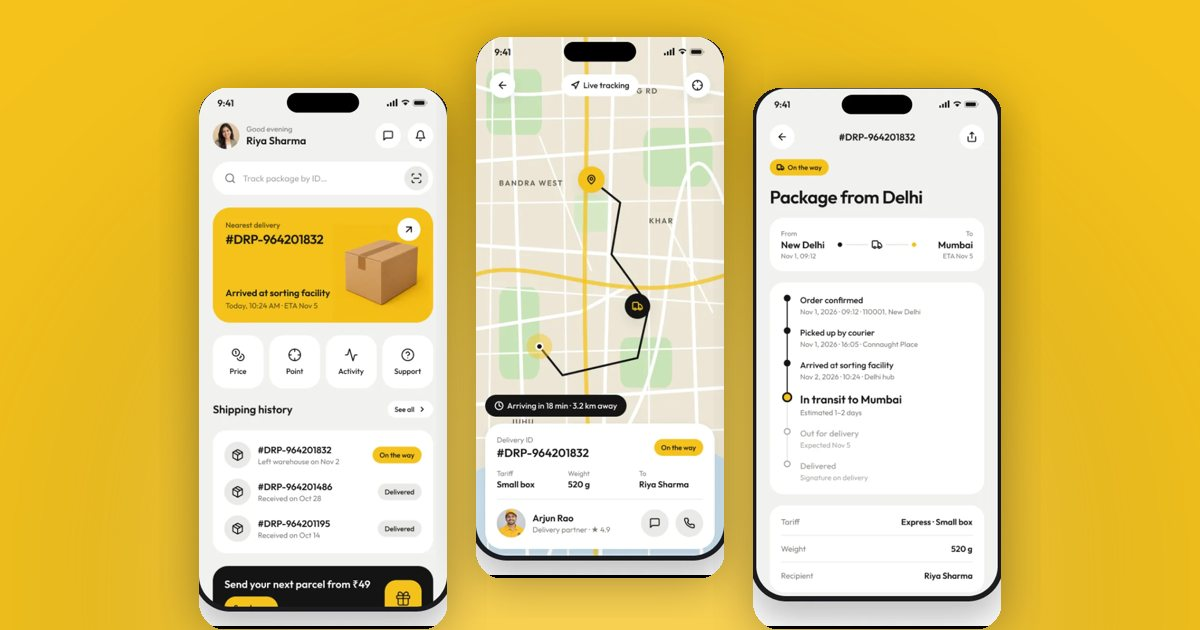
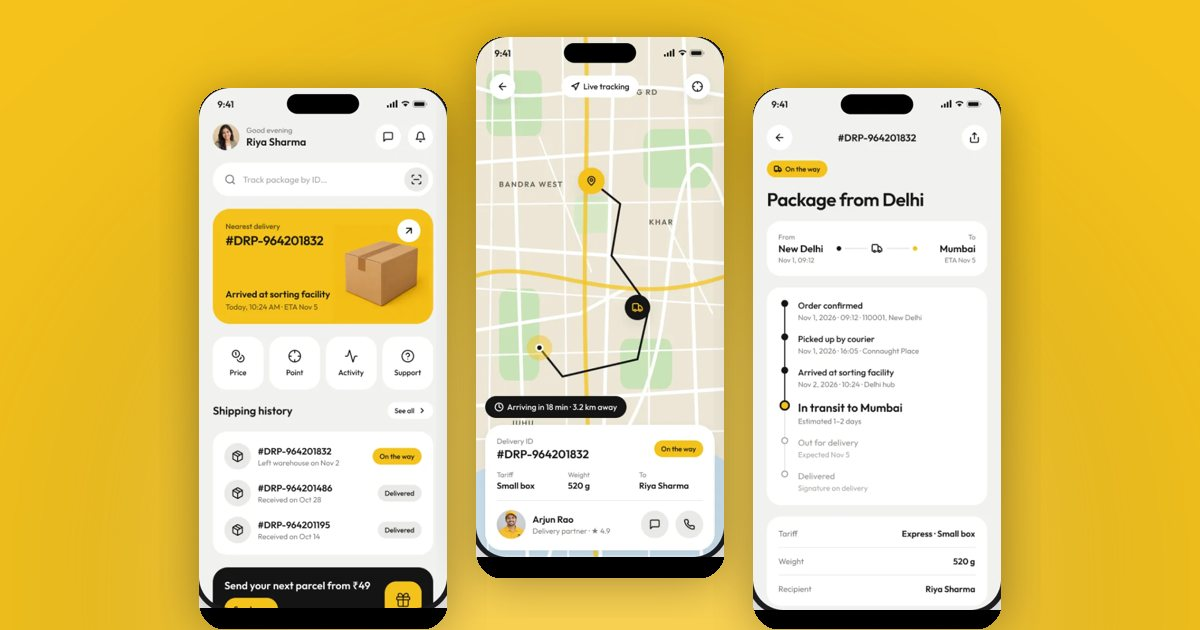
DROPP: re-crop phone screens exactly inside the frame, no bezel or shadow at the foot
Claude-Session: https://claude.ai/code/session_01PDiCoiS8fQavZrhd29JHkY

diff --git a/work/dropp-parcel-delivery-app.html b/work/dropp-parcel-delivery-app.html
@@ -170,7 +170,7 @@
     <dl class="wr-meta"><div><dt>Industry</dt><dd>Logistics &amp; Delivery</dd></div><div><dt>Platform</dt><dd>iOS &amp; Android</dd></div><div><dt>Role</dt><dd>UI/UX Designer</dd></div><div><dt>Year</dt><dd>2026</dd></div><div><dt>Deliverables</dt><dd>Splash, home, live tracking, delivery details, shipping history, design system</dd></div></dl>
     <div class="wr-acts"><a class="wr-start" href="#overview">Start reading <span>3 min</span></a><a class="wr-swap" href="?mode=interactive">Prefer the animated version? <b>Switch to interactive</b></a></div>
   </div>
-  <div class="wr-hero__media"><div class="wr-hero__phones"><figure class="wphone"><img src="../images/work/dropp/p01.webp" alt="DROPP app screen" width="520" height="1130" fetchpriority="high"></figure><figure class="wphone"><img src="../images/work/dropp/p02.webp" alt="DROPP app screen" width="520" height="1130" fetchpriority="high"></figure><figure class="wphone"><img src="../images/work/dropp/p03.webp" alt="DROPP app screen" width="520" height="1130" fetchpriority="high"></figure></div></div>
+  <div class="wr-hero__media"><div class="wr-hero__phones"><figure class="wphone"><img src="../images/work/dropp/p01.webp" alt="DROPP app screen" width="520" height="1092" fetchpriority="high"></figure><figure class="wphone"><img src="../images/work/dropp/p02.webp" alt="DROPP app screen" width="520" height="1092" fetchpriority="high"></figure><figure class="wphone"><img src="../images/work/dropp/p03.webp" alt="DROPP app screen" width="520" height="1092" fetchpriority="high"></figure></div></div>
 </header>
 <div class="wrap wr-body">
   <aside class="wr-toc" aria-label="On this page"><div class="wr-toc__in">
@@ -200,27 +200,27 @@
   <p class="wr-k"><span>04</span>Splash and brand</p>
   <h2>A brand you can spot in a second.</h2>
   <p class="wr-p">A yellow splash with a stacked-parcel illustration, the DROPP wordmark and the promise &quot;Send it. Track it. Done.&quot; sets the tone before the app opens.</p>
-  <div class="wphones wphones--1"><figure class="wphone"><img src="../images/work/dropp/p01.webp" alt="DROPP splash and brand, screen 1" width="520" height="1130" loading="lazy" decoding="async"></figure></div>
+  <div class="wphones wphones--1"><figure class="wphone"><img src="../images/work/dropp/p01.webp" alt="DROPP splash and brand, screen 1" width="520" height="1092" loading="lazy" decoding="async"></figure></div>
 </section><section class="wr-sec" id="home">
   <p class="wr-k"><span>05</span>Home</p>
   <h2>The nearest delivery leads.</h2>
   <p class="wr-p">A greeting, a search-by-ID field and a large yellow card for the nearest delivery come first, followed by quick actions for price, pickup point, activity and support, and the shipping history.</p>
-  <div class="wphones wphones--1"><figure class="wphone"><img src="../images/work/dropp/p02.webp" alt="DROPP home, screen 1" width="520" height="1130" loading="lazy" decoding="async"></figure></div>
+  <div class="wphones wphones--1"><figure class="wphone"><img src="../images/work/dropp/p02.webp" alt="DROPP home, screen 1" width="520" height="1092" loading="lazy" decoding="async"></figure></div>
 </section><section class="wr-sec" id="tracking">
   <p class="wr-k"><span>06</span>Live tracking</p>
   <h2>See the courier, not a status code.</h2>
   <p class="wr-p">The route map shows pickup, courier and destination with an &quot;arriving in 18 min&quot; chip. The card below holds the delivery ID, tariff, weight, recipient and buttons to message or call the courier.</p>
-  <div class="wphones wphones--1"><figure class="wphone"><img src="../images/work/dropp/p03.webp" alt="DROPP live tracking, screen 1" width="520" height="1130" loading="lazy" decoding="async"></figure></div>
+  <div class="wphones wphones--1"><figure class="wphone"><img src="../images/work/dropp/p03.webp" alt="DROPP live tracking, screen 1" width="520" height="1092" loading="lazy" decoding="async"></figure></div>
 </section><section class="wr-sec" id="details">
   <p class="wr-k"><span>07</span>Delivery details</p>
   <h2>Every stage, explained.</h2>
   <p class="wr-p">From New Delhi to Mumbai, the timeline marks order confirmed, picked up, at sorting facility, in transit, out for delivery and delivered, with the current stage highlighted.</p>
-  <div class="wphones wphones--1"><figure class="wphone"><img src="../images/work/dropp/p04.webp" alt="DROPP delivery details, screen 1" width="520" height="1130" loading="lazy" decoding="async"></figure></div>
+  <div class="wphones wphones--1"><figure class="wphone"><img src="../images/work/dropp/p04.webp" alt="DROPP delivery details, screen 1" width="520" height="1095" loading="lazy" decoding="async"></figure></div>
 </section><section class="wr-sec" id="mockups">
   <p class="wr-k"><span>08</span>All screens</p>
   <h2>One flow from splash to doorstep.</h2>
   <p class="wr-p">Together the four screens cover the journey most users repeat every week: open, check, track, done.</p>
-  <div class="wphones wphones--4"><figure class="wphone"><img src="../images/work/dropp/p01.webp" alt="DROPP all screens, screen 1" width="520" height="1130" loading="lazy" decoding="async"></figure><figure class="wphone"><img src="../images/work/dropp/p02.webp" alt="DROPP all screens, screen 2" width="520" height="1130" loading="lazy" decoding="async"></figure><figure class="wphone"><img src="../images/work/dropp/p03.webp" alt="DROPP all screens, screen 3" width="520" height="1130" loading="lazy" decoding="async"></figure><figure class="wphone"><img src="../images/work/dropp/p04.webp" alt="DROPP all screens, screen 4" width="520" height="1130" loading="lazy" decoding="async"></figure></div>
+  <div class="wphones wphones--4"><figure class="wphone"><img src="../images/work/dropp/p01.webp" alt="DROPP all screens, screen 1" width="520" height="1092" loading="lazy" decoding="async"></figure><figure class="wphone"><img src="../images/work/dropp/p02.webp" alt="DROPP all screens, screen 2" width="520" height="1092" loading="lazy" decoding="async"></figure><figure class="wphone"><img src="../images/work/dropp/p03.webp" alt="DROPP all screens, screen 3" width="520" height="1092" loading="lazy" decoding="async"></figure><figure class="wphone"><img src="../images/work/dropp/p04.webp" alt="DROPP all screens, screen 4" width="520" height="1095" loading="lazy" decoding="async"></figure></div>
 </section>
     <section class="wr-sec" id="decisions">
       <p class="wr-k"><span>09</span>Decisions</p>
@@ -255,7 +255,7 @@
   <div class="ix-hero__txt"><p class="ix-k">DROPP · Parcel delivery app · 2026</p>
   <h2 class="ix-hero__h"><span class="ix-w"><span>Send</span></span> <span class="ix-w"><span>it.</span></span> <span class="ix-w"><span>Track</span></span> <span class="ix-w"><span>it.</span></span> <span class="ix-w"><span>Done.</span></span> </h2>
   <p class="ix-hero__p">A parcel delivery app where the answer to &quot;where is my package?&quot; is always one glance away.</p></div>
-  <div class="ix-hero__phones"><figure class="wphone"><img src="../images/work/dropp/p01.webp" alt="DROPP screen" width="520" height="1130" fetchpriority="high"></figure><figure class="wphone"><img src="../images/work/dropp/p02.webp" alt="DROPP screen" width="520" height="1130" fetchpriority="high"></figure><figure class="wphone"><img src="../images/work/dropp/p03.webp" alt="DROPP screen" width="520" height="1130" fetchpriority="high"></figure></div>
+  <div class="ix-hero__phones"><figure class="wphone"><img src="../images/work/dropp/p01.webp" alt="DROPP screen" width="520" height="1092" fetchpriority="high"></figure><figure class="wphone"><img src="../images/work/dropp/p02.webp" alt="DROPP screen" width="520" height="1092" fetchpriority="high"></figure><figure class="wphone"><img src="../images/work/dropp/p03.webp" alt="DROPP screen" width="520" height="1092" fetchpriority="high"></figure></div>
   <p class="ix-scroll"><i></i>Scroll, I’ll walk you through it</p>
 </section><section class="ix-ch ix-brief" data-ch="brief">
   <p class="ix-k">01 · The brief</p>
@@ -263,23 +263,23 @@
   <div class="ix-stats"><div><b data-count="4">4</b><span>core screens</span></div><div><b data-count="1">1</b><span>tap from home to live map</span></div><div><b data-count="6">6</b><span>delivery stages on the timeline</span></div><div><b data-count="19,000+">19,000+</b><span>pin codes shown on splash</span></div></div>
 </section><section class="ix-ch ix-hs" data-ch="hscroll">
   <div class="ix-hs__pin"><div class="ix-hs__head"><p class="ix-k">02 · The product</p><h3>4 screens, one flow.</h3></div>
-  <div class="ix-hs__track"><figure class="wphone"><img src="../images/work/dropp/p01.webp" alt="DROPP screen" width="520" height="1130" loading="lazy" decoding="async"></figure><figure class="wphone"><img src="../images/work/dropp/p02.webp" alt="DROPP screen" width="520" height="1130" loading="lazy" decoding="async"></figure><figure class="wphone"><img src="../images/work/dropp/p03.webp" alt="DROPP screen" width="520" height="1130" loading="lazy" decoding="async"></figure><figure class="wphone"><img src="../images/work/dropp/p04.webp" alt="DROPP screen" width="520" height="1130" loading="lazy" decoding="async"></figure></div>
+  <div class="ix-hs__track"><figure class="wphone"><img src="../images/work/dropp/p01.webp" alt="DROPP screen" width="520" height="1092" loading="lazy" decoding="async"></figure><figure class="wphone"><img src="../images/work/dropp/p02.webp" alt="DROPP screen" width="520" height="1092" loading="lazy" decoding="async"></figure><figure class="wphone"><img src="../images/work/dropp/p03.webp" alt="DROPP screen" width="520" height="1092" loading="lazy" decoding="async"></figure><figure class="wphone"><img src="../images/work/dropp/p04.webp" alt="DROPP screen" width="520" height="1095" loading="lazy" decoding="async"></figure></div>
   <div class="ix-hs__bar"><i></i></div></div>
 </section><section class="ix-ch ix-sp" data-ch="split">
   <div class="ix-sp__txt"><p class="ix-k">03 · Splash and brand</p><h3>A brand you can spot in a second.</h3><p>A yellow splash with a stacked-parcel illustration, the DROPP wordmark and the promise &quot;Send it. Track it. Done.&quot; sets the tone before the app opens.</p></div>
-  <div class="ix-sp__media"><div class="ix-sp__phones"><figure class="wphone"><img src="../images/work/dropp/p01.webp" alt="DROPP Splash and brand" width="520" height="1130" loading="lazy" decoding="async"></figure></div></div>
+  <div class="ix-sp__media"><div class="ix-sp__phones"><figure class="wphone"><img src="../images/work/dropp/p01.webp" alt="DROPP Splash and brand" width="520" height="1092" loading="lazy" decoding="async"></figure></div></div>
 </section><section class="ix-ch ix-sp ix-sp--r" data-ch="split">
   <div class="ix-sp__txt"><p class="ix-k">04 · Home</p><h3>The nearest delivery leads.</h3><p>A greeting, a search-by-ID field and a large yellow card for the nearest delivery come first, followed by quick actions for price, pickup point, activity and support, and the shipping history.</p></div>
-  <div class="ix-sp__media"><div class="ix-sp__phones"><figure class="wphone"><img src="../images/work/dropp/p02.webp" alt="DROPP Home" width="520" height="1130" loading="lazy" decoding="async"></figure></div></div>
+  <div class="ix-sp__media"><div class="ix-sp__phones"><figure class="wphone"><img src="../images/work/dropp/p02.webp" alt="DROPP Home" width="520" height="1092" loading="lazy" decoding="async"></figure></div></div>
 </section><section class="ix-ch ix-sp" data-ch="split">
   <div class="ix-sp__txt"><p class="ix-k">05 · Live tracking</p><h3>See the courier, not a status code.</h3><p>The route map shows pickup, courier and destination with an &quot;arriving in 18 min&quot; chip. The card below holds the delivery ID, tariff, weight, recipient and buttons to message or call the courier.</p></div>
-  <div class="ix-sp__media"><div class="ix-sp__phones"><figure class="wphone"><img src="../images/work/dropp/p03.webp" alt="DROPP Live tracking" width="520" height="1130" loading="lazy" decoding="async"></figure></div></div>
+  <div class="ix-sp__media"><div class="ix-sp__phones"><figure class="wphone"><img src="../images/work/dropp/p03.webp" alt="DROPP Live tracking" width="520" height="1092" loading="lazy" decoding="async"></figure></div></div>
 </section><section class="ix-ch ix-sp ix-sp--r" data-ch="split">
   <div class="ix-sp__txt"><p class="ix-k">06 · Delivery details</p><h3>Every stage, explained.</h3><p>From New Delhi to Mumbai, the timeline marks order confirmed, picked up, at sorting facility, in transit, out for delivery and delivered, with the current stage highlighted.</p></div>
-  <div class="ix-sp__media"><div class="ix-sp__phones"><figure class="wphone"><img src="../images/work/dropp/p04.webp" alt="DROPP Delivery details" width="520" height="1130" loading="lazy" decoding="async"></figure></div></div>
+  <div class="ix-sp__media"><div class="ix-sp__phones"><figure class="wphone"><img src="../images/work/dropp/p04.webp" alt="DROPP Delivery details" width="520" height="1095" loading="lazy" decoding="async"></figure></div></div>
 </section><section class="ix-ch ix-sp" data-ch="split">
   <div class="ix-sp__txt"><p class="ix-k">07 · All screens</p><h3>One flow from splash to doorstep.</h3><p>Together the four screens cover the journey most users repeat every week: open, check, track, done.</p></div>
-  <div class="ix-sp__media"><div class="ix-sp__phones"><figure class="wphone"><img src="../images/work/dropp/p01.webp" alt="DROPP All screens" width="520" height="1130" loading="lazy" decoding="async"></figure><figure class="wphone"><img src="../images/work/dropp/p02.webp" alt="DROPP All screens" width="520" height="1130" loading="lazy" decoding="async"></figure><figure class="wphone"><img src="../images/work/dropp/p03.webp" alt="DROPP All screens" width="520" height="1130" loading="lazy" decoding="async"></figure></div></div>
+  <div class="ix-sp__media"><div class="ix-sp__phones"><figure class="wphone"><img src="../images/work/dropp/p01.webp" alt="DROPP All screens" width="520" height="1092" loading="lazy" decoding="async"></figure><figure class="wphone"><img src="../images/work/dropp/p02.webp" alt="DROPP All screens" width="520" height="1092" loading="lazy" decoding="async"></figure><figure class="wphone"><img src="../images/work/dropp/p03.webp" alt="DROPP All screens" width="520" height="1092" loading="lazy" decoding="async"></figure></div></div>
 </section><section class="ix-ch ix-dec" data-ch="cards">
   <p class="ix-k">08 · The calls that mattered</p><h3>Three decisions.</h3>
   <div class="ix-dec__g"><div class="ix-dec__c"><i>1</i><b>Yellow card for the active parcel</b><p>The one delivery that matters right now gets the brand colour, everything else stays neutral.</p></div><div class="ix-dec__c"><i>2</i><b>ETA as a chip on the map</b><p>&quot;Arriving in 18 min&quot; floats on the map so the answer is visible without scrolling.</p></div><div class="ix-dec__c"><i>3</i><b>Courier contact in the tracking card</b><p>Message and call sit next to the courier name, not in a separate support page.</p></div></div>
